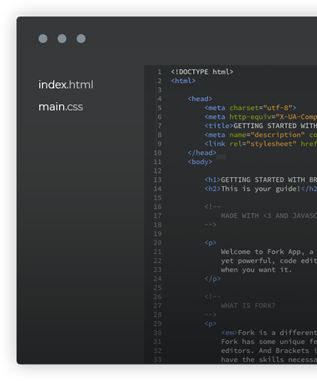
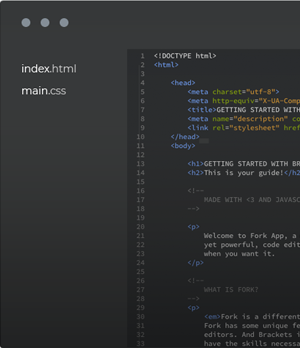
changed styles in features section (not final)

diff --git a/src/scss/layouts/_features.scss b/src/scss/layouts/_features.scss
@@ -1,47 +1,59 @@
 .features {
   text-align: center;
   @media (max-width: 480px) {
-    padding-bottom: 6px;
+    padding-bottom: 22px;
+  }
+  @media (min-width: 481px) {
+    padding-bottom: 12px;
   }
   @media (min-width: 993px) {
-    padding: 94px 0 33px;
+    padding: 94px 0 45px;
     background-color: #f4f4f4;
   }
   &__container {
+    padding-right: 0; //уточнить
+  }
+  &__wrapper {
     display: grid;
     grid-template-columns: 1fr;
-    grid-template-areas: " title" "list" "image";
+    grid-template-areas: "title" "list" "image";
     @media (min-width: 993px) {
-      display: grid;
       grid-template-columns: 1fr 1fr;
-      grid-template-rows: 89px auto; // обрезать картинку и поставить высоту 88px
+      grid-template-rows: 88px auto;
       grid-template-areas:
         "list title"
         "list image";
-      column-gap: 49px;
+      column-gap: 1%;
     }
   }
   &__title {
+    grid-area: title;
     margin-bottom: 36px;
+    padding-right: 10px; //уточнить
     @include font(38, $accent-color, 32, 700);
-    @media (min-width: 481px) {
+    @media (min-width: 481px) and (max-width: 992px) {
       margin-bottom: 50px;
       @include font(44, $accent-color, 42, 700);
     }
-    grid-area: title;
-    @media (min-width: 993px) {
-      @include font(50, $accent-color, 48, 700);
+    @media (min-width: 993px) and (max-width: 1184px) {
+      @include font(44, $accent-color, 39, 700);
+    }
+    @media (min-width: 1185px) {
+      @include font(50, $accent-color, 47, 700);
     }
   }
   &__list {
-    margin-bottom: 64px;
     grid-area: list;
+    margin-bottom: 80px;
+    padding-right: 10px; //уточнить
     @media (min-width: 481px) {
-      margin-bottom: 76px;
+      margin-bottom: 88px;
       text-align: left;
     }
+    @media (min-width: 993px) {
+      padding-right: 0;
+    }
   }
-
   &__item {
     position: relative;
     &:not(:last-child) {
@@ -100,10 +112,21 @@
     }
   }
   &__img {
-    display: block;
-    width: 60vw;
-    height: 100%;
-    object-fit: cover;
     grid-area: image;
+    display: block;
+    width: 100%;
+    height: auto;
+    @media (max-width: 480px) {
+      max-width: 300px;
+      margin-left: auto;
+      box-shadow: -9px 0px 24px -10px #40464b4a;
+    }
+    @media (min-width: 481px) {
+      box-shadow: -9px 0px 26px 0px #40464b4a;
+    }
+    @media (min-width: 481px) and (max-width: 992px) {
+      max-width: 677px;
+      margin-left: auto;
+    }
   }
 }

diff --git a/src/html/features.html b/src/html/features.html
@@ -1,6 +1,6 @@
 <section class="features">
-  <div class="container">
-    <div class="features__container">
+  <div class="container features__container">
+    <div class="features__wrapper">
       <ul class="features__list">
         @@loop("./components/features/features-item.html",
         "./components/features/features-item.json")
@@ -9,10 +9,10 @@
       <h2 class="features__title">&ltHere is what you get&gt</h2>
       <img
         srcset="
-          ./dist/img/features/png/features-mb.png     317w,
-          ./dist/img/features/png/features-tablet.png 700w
+          ./dist/img/features/png/features-mb.png     300w,
+          ./dist/img/features/png/features-tablet.png 677w
         "
-        sizes="(min-width: 768px) 700px, 317px"
+        sizes="(min-width: 768px) 677px, 300px"
         src="./dist/img/features/png/features-mb.png"
         alt="code-editor-picture"
         class="features__img"
